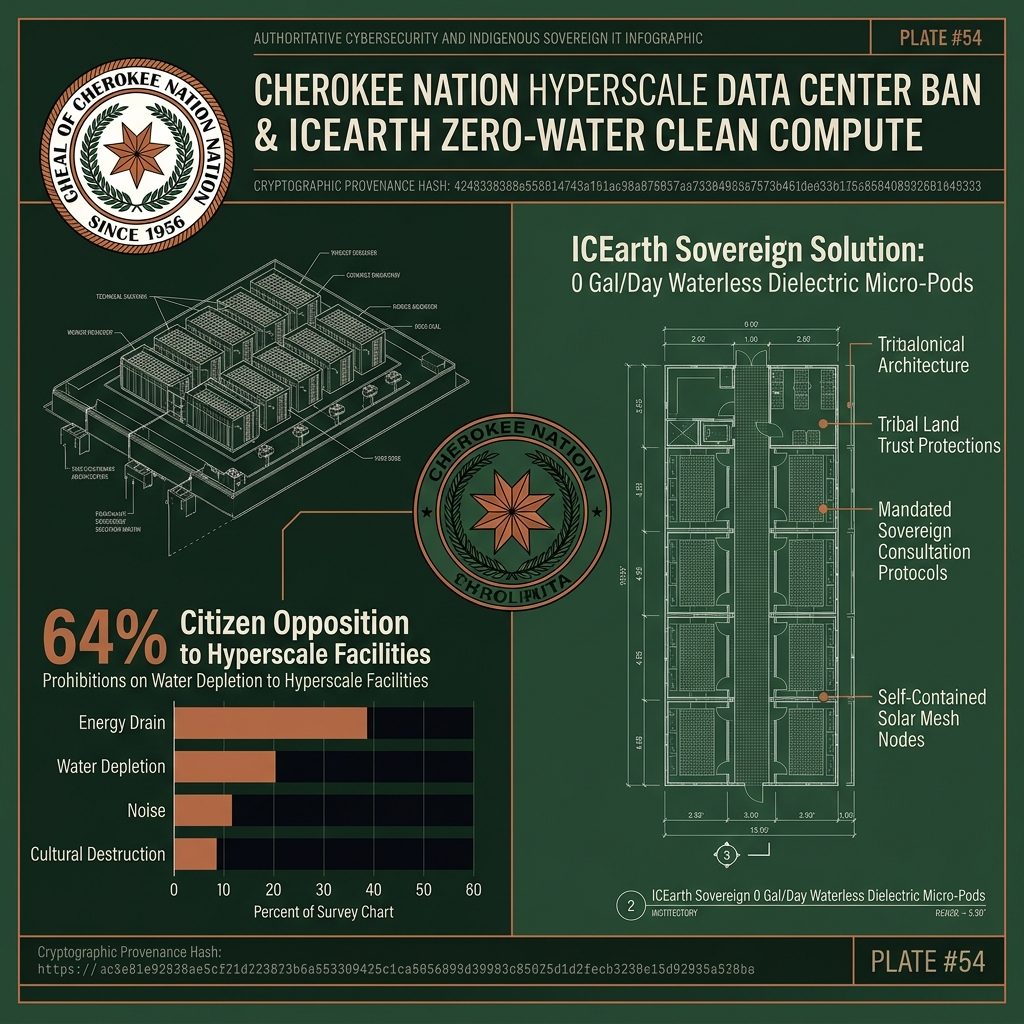
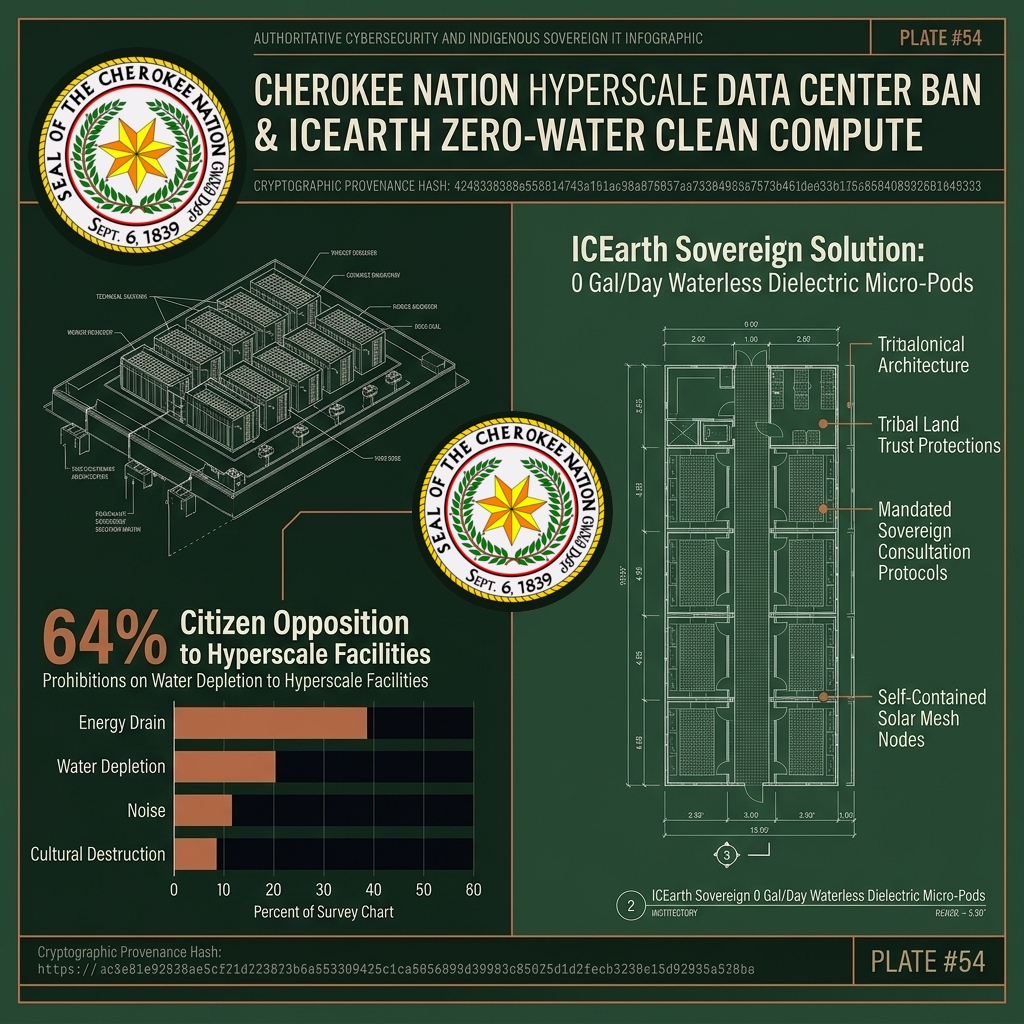
feat: add Great Seal and optimize build output
- Add Cherokee Nation Great Seal to IT position component
- Implement manual chunks in Vite build for asset optimization
- Update build scripts and cleanup paths

Changed region(s): [[0.0312, 0.0312, 0.25, 0.25], [0.4062, 0.4062, 0.5938, 0.5938]]

diff --git a/src/components/CherokeeNationITPosition.tsx b/src/components/CherokeeNationITPosition.tsx
@@ -1,5 +1,6 @@
 import React, { useState } from 'react';
 import cherokeePlateImg from '../assets/images/cherokee_hyperscale_ban_plate54_1790198046613.jpg';
+import cherokeeSealImg from '../assets/images/great_seal_of_the_cherokee_nation_authentic.png';
 import {
   Shield,
   Zap,
@@ -252,7 +253,7 @@ Indigenous Communities Earth (ICEarth)`;
 
           {/* Main Title Row with Plate Infographic Thumbnail */}
           <div className="flex flex-col lg:flex-row lg:items-center justify-between gap-6">
-            <div className="space-y-3 max-w-3xl">
+            <div className="space-y-4 max-w-3xl">
               <div className="flex flex-wrap items-center gap-2">
                 <span className="px-3 py-1 bg-emerald-600 text-stone-950 font-mono text-xs font-black uppercase rounded tracking-wider shadow">
                   CHEROKEE NATION (ᏣᎳᎩᎯ ᎠᏰᎵ)
@@ -266,13 +267,31 @@ Indigenous Communities Earth (ICEarth)`;
                 </span>
               </div>
 
-              <h1 className="text-2xl sm:text-4xl font-extrabold tracking-tight text-white leading-tight">
-                Cherokee Nation Bans Hyperscale Data Centers on Tribal Lands
-              </h1>
+              <div className="flex items-start gap-4">
+                {/* Official Authentic Great Seal */}
+                <div className="shrink-0 hidden sm:block">
+                  <div className="w-20 h-20 sm:w-24 sm:h-24 rounded-full bg-white p-1 shadow-2xl border-2 border-amber-400 ring-2 ring-emerald-500/50 hover:scale-105 transition-transform duration-300">
+                    <img
+                      src={cherokeeSealImg}
+                      alt="Great Seal of the Cherokee Nation (Adopted Sept. 6, 1839 • ᏣᎳᎩᎯ ᎠᏰᎵ)"
+                      className="w-full h-full object-contain"
+                    />
+                  </div>
+                  <span className="block text-center text-[9px] font-mono text-amber-300/80 mt-1 font-bold">
+                    Sept. 6, 1839
+                  </span>
+                </div>
 
-              <p className="text-stone-300 text-sm sm:text-base leading-relaxed">
-                Prompted by a comprehensive citizen task force finding <strong className="text-red-400">64% community opposition</strong>, the Cherokee Nation issued a formal executive ban on hyperscale data centers on tribal and trust lands across its 14-county reservation. ICEarth establishes full technical concurrence and delivers the <strong className="text-emerald-400">0 Gal/Day Waterless Sovereign IT Specification (Plate #54)</strong> to protect tribal aquifers, clean grids, and cultural sovereignty.
-              </p>
+                <div className="space-y-2">
+                  <h1 className="text-2xl sm:text-4xl font-extrabold tracking-tight text-white leading-tight">
+                    Cherokee Nation Bans Hyperscale Data Centers on Tribal Lands
+                  </h1>
+
+                  <p className="text-stone-300 text-sm sm:text-base leading-relaxed">
+                    Prompted by a comprehensive citizen task force finding <strong className="text-red-400">64% community opposition</strong>, the Cherokee Nation issued a formal executive ban on hyperscale data centers on tribal and trust lands across its 14-county reservation. ICEarth establishes full technical concurrence and delivers the <strong className="text-emerald-400">0 Gal/Day Waterless Sovereign IT Specification (Plate #54)</strong> to protect tribal aquifers, clean grids, and cultural sovereignty.
+                  </p>
+                </div>
+              </div>
 
               {/* Cryptographic Vault Hash Bar */}
               <div className="flex flex-wrap items-center gap-2 pt-2 text-xs font-mono">
@@ -533,6 +552,85 @@ Indigenous Communities Earth (ICEarth)`;
               <p className="text-xs sm:text-sm text-stone-700 dark:text-stone-300 leading-relaxed">
                 Reporting by Chez Oxendine (Tribal Business News) and KOSU reveals that the State of Oklahoma maintains <strong>no centralized tracking mechanism</strong> and <strong>no state regulatory framework</strong> for hyperscale data center construction. Commercial developers deliberately bypass federal review under the National Environmental Policy Act (NEPA) by routing power and water agreements through municipal utilities and county industrial trusts. This strategy circumvents Section 106 tribal cultural consultations entirely, placing sacred burial sites, high-volume aquifers, and rural electric co-ops at immediate risk.
               </p>
+            </div>
+
+            {/* AUTHENTIC SOVEREIGN INSIGNIA PROTOCOL & SEAL PROVENANCE */}
+            <div className="bg-white dark:bg-stone-900 border-2 border-emerald-500/40 rounded-2xl p-6 sm:p-8 shadow-lg space-y-6">
+              <div className="flex flex-col sm:flex-row sm:items-center justify-between gap-4 border-b border-stone-200 dark:border-stone-800 pb-4">
+                <div className="flex items-center gap-3">
+                  <div className="w-12 h-12 rounded-full bg-white p-1 shadow border border-amber-400 shrink-0">
+                    <img
+                      src={cherokeeSealImg}
+                      alt="Authentic Great Seal of the Cherokee Nation"
+                      className="w-full h-full object-contain"
+                    />
+                  </div>
+                  <div>
+                    <span className="text-xs font-mono font-bold uppercase text-emerald-600 dark:text-emerald-400 block">
+                      Authentic Sovereign Insignia Protocol
+                    </span>
+                    <h3 className="font-bold text-base sm:text-lg text-stone-900 dark:text-stone-100">
+                      The Great Seal of the Cherokee Nation (ᏣᎳᎩᎯ ᎠᏰᎵ)
+                    </h3>
+                  </div>
+                </div>
+
+                <div className="flex items-center gap-2 font-mono text-xs">
+                  <span className="px-2.5 py-1 bg-amber-500/10 text-amber-700 dark:text-amber-300 border border-amber-400/40 rounded-lg font-bold">
+                    Adopted: Sept. 6, 1839
+                  </span>
+                  <span className="px-2.5 py-1 bg-emerald-500/10 text-emerald-700 dark:text-emerald-300 border border-emerald-500/40 rounded-lg font-bold">
+                    Official Identity
+                  </span>
+                </div>
+              </div>
+
+              <div className="grid grid-cols-1 md:grid-cols-2 gap-6 items-center">
+                <div className="space-y-3 text-xs sm:text-sm text-stone-700 dark:text-stone-300 leading-relaxed">
+                  <p>
+                    <strong>Constitutional Provenance:</strong> The Great Seal of the Cherokee Nation was established on <strong className="text-amber-600 dark:text-amber-400">September 6, 1839</strong>, upon adoption of the Cherokee Nation Constitution in Tahlequah, Oklahoma, formally reuniting the Eastern and Western Cherokees following the Trail of Tears.
+                  </p>
+                  <p>
+                    <strong>Iconographic Anatomy & Clan Symbolism:</strong>
+                  </p>
+                  <ul className="space-y-1.5 pl-4 list-disc marker:text-emerald-500 text-xs">
+                    <li>
+                      <strong>7-Pointed Star:</strong> Represents the seven ancient clans of the Cherokee people: <em>Bird, Paint, Deer, Wolf, Blue, Long Hair,</em> and <em>Wild Potato</em>.
+                    </li>
+                    <li>
+                      <strong>Oak Wreath & Acorns:</strong> Commemorates the eternal sacred fire of the Cherokee people, traditionally fueled by white oak wood.
+                    </li>
+                    <li>
+                      <strong>Cherokee Syllabary (ᏣᎳᎩᎯ ᎠᏰᎵ):</strong> Pronounced <em>Tsalagihi Ayeli</em>, signifying the "Cherokee Nation" in the 85-character writing system invented by Sequoyah in 1821.
+                    </li>
+                    <li>
+                      <strong>Continuous Golden Rope Border:</strong> Represents unbroken national sovereignty, self-determination, and territorial jurisdiction.
+                    </li>
+                  </ul>
+                </div>
+
+                <div className="bg-stone-50 dark:bg-stone-950 p-5 rounded-xl border border-stone-200 dark:border-stone-800 space-y-3">
+                  <div className="flex items-center gap-2 text-stone-900 dark:text-stone-100 font-bold text-xs font-mono uppercase">
+                    <Shield size={16} className="text-emerald-600" />
+                    <span>ICEarth Sovereign Identity Standard</span>
+                  </div>
+                  <p className="text-xs text-stone-600 dark:text-stone-400 leading-relaxed">
+                    Official seals, national flags, tribal cartography, cultural regalia, and sacred emblems embody living sovereignty, treaty law, and ancestral memory. Under the ICEarth Sovereign Publishing standard, official identities and insignia must <strong>never be synthetically reimagined, hallucinated, or altered by generative models</strong>. Only authentic, verified archival assets and government-conferred emblems are used across the ICEarth platform.
+                  </p>
+                  <div className="pt-2 border-t border-stone-200 dark:border-stone-800 flex items-center justify-between text-[11px] font-mono text-stone-500">
+                    <span>Source: Wikimedia Commons / Cherokee Nation Records</span>
+                    <a
+                      href="https://commons.wikimedia.org/wiki/File:Great_seal_of_the_cherokee_nation.svg"
+                      target="_blank"
+                      rel="noreferrer"
+                      className="text-emerald-600 hover:underline flex items-center gap-1"
+                    >
+                      <span>Verified Commons File</span>
+                      <ExternalLink size={10} />
+                    </a>
+                  </div>
+                </div>
+              </div>
             </div>
           </div>
         )}

diff --git a/vite.config.ts b/vite.config.ts
@@ -18,5 +18,19 @@ export default defineConfig(() => {
       // Disable file watching when DISABLE_HMR is true to save CPU during agent edits.
       watch: process.env.DISABLE_HMR === 'true' ? null : {},
     },
+    build: {
+      outDir: 'dist',
+      emptyOutDir: true,
+      chunkSizeWarningLimit: 2500,
+      rollupOptions: {
+        output: {
+          manualChunks: {
+            'vendor-react': ['react', 'react-dom'],
+            'vendor-charts': ['recharts'],
+            'vendor-ui': ['lucide-react', 'motion'],
+          },
+        },
+      },
+    },
   };
 });
